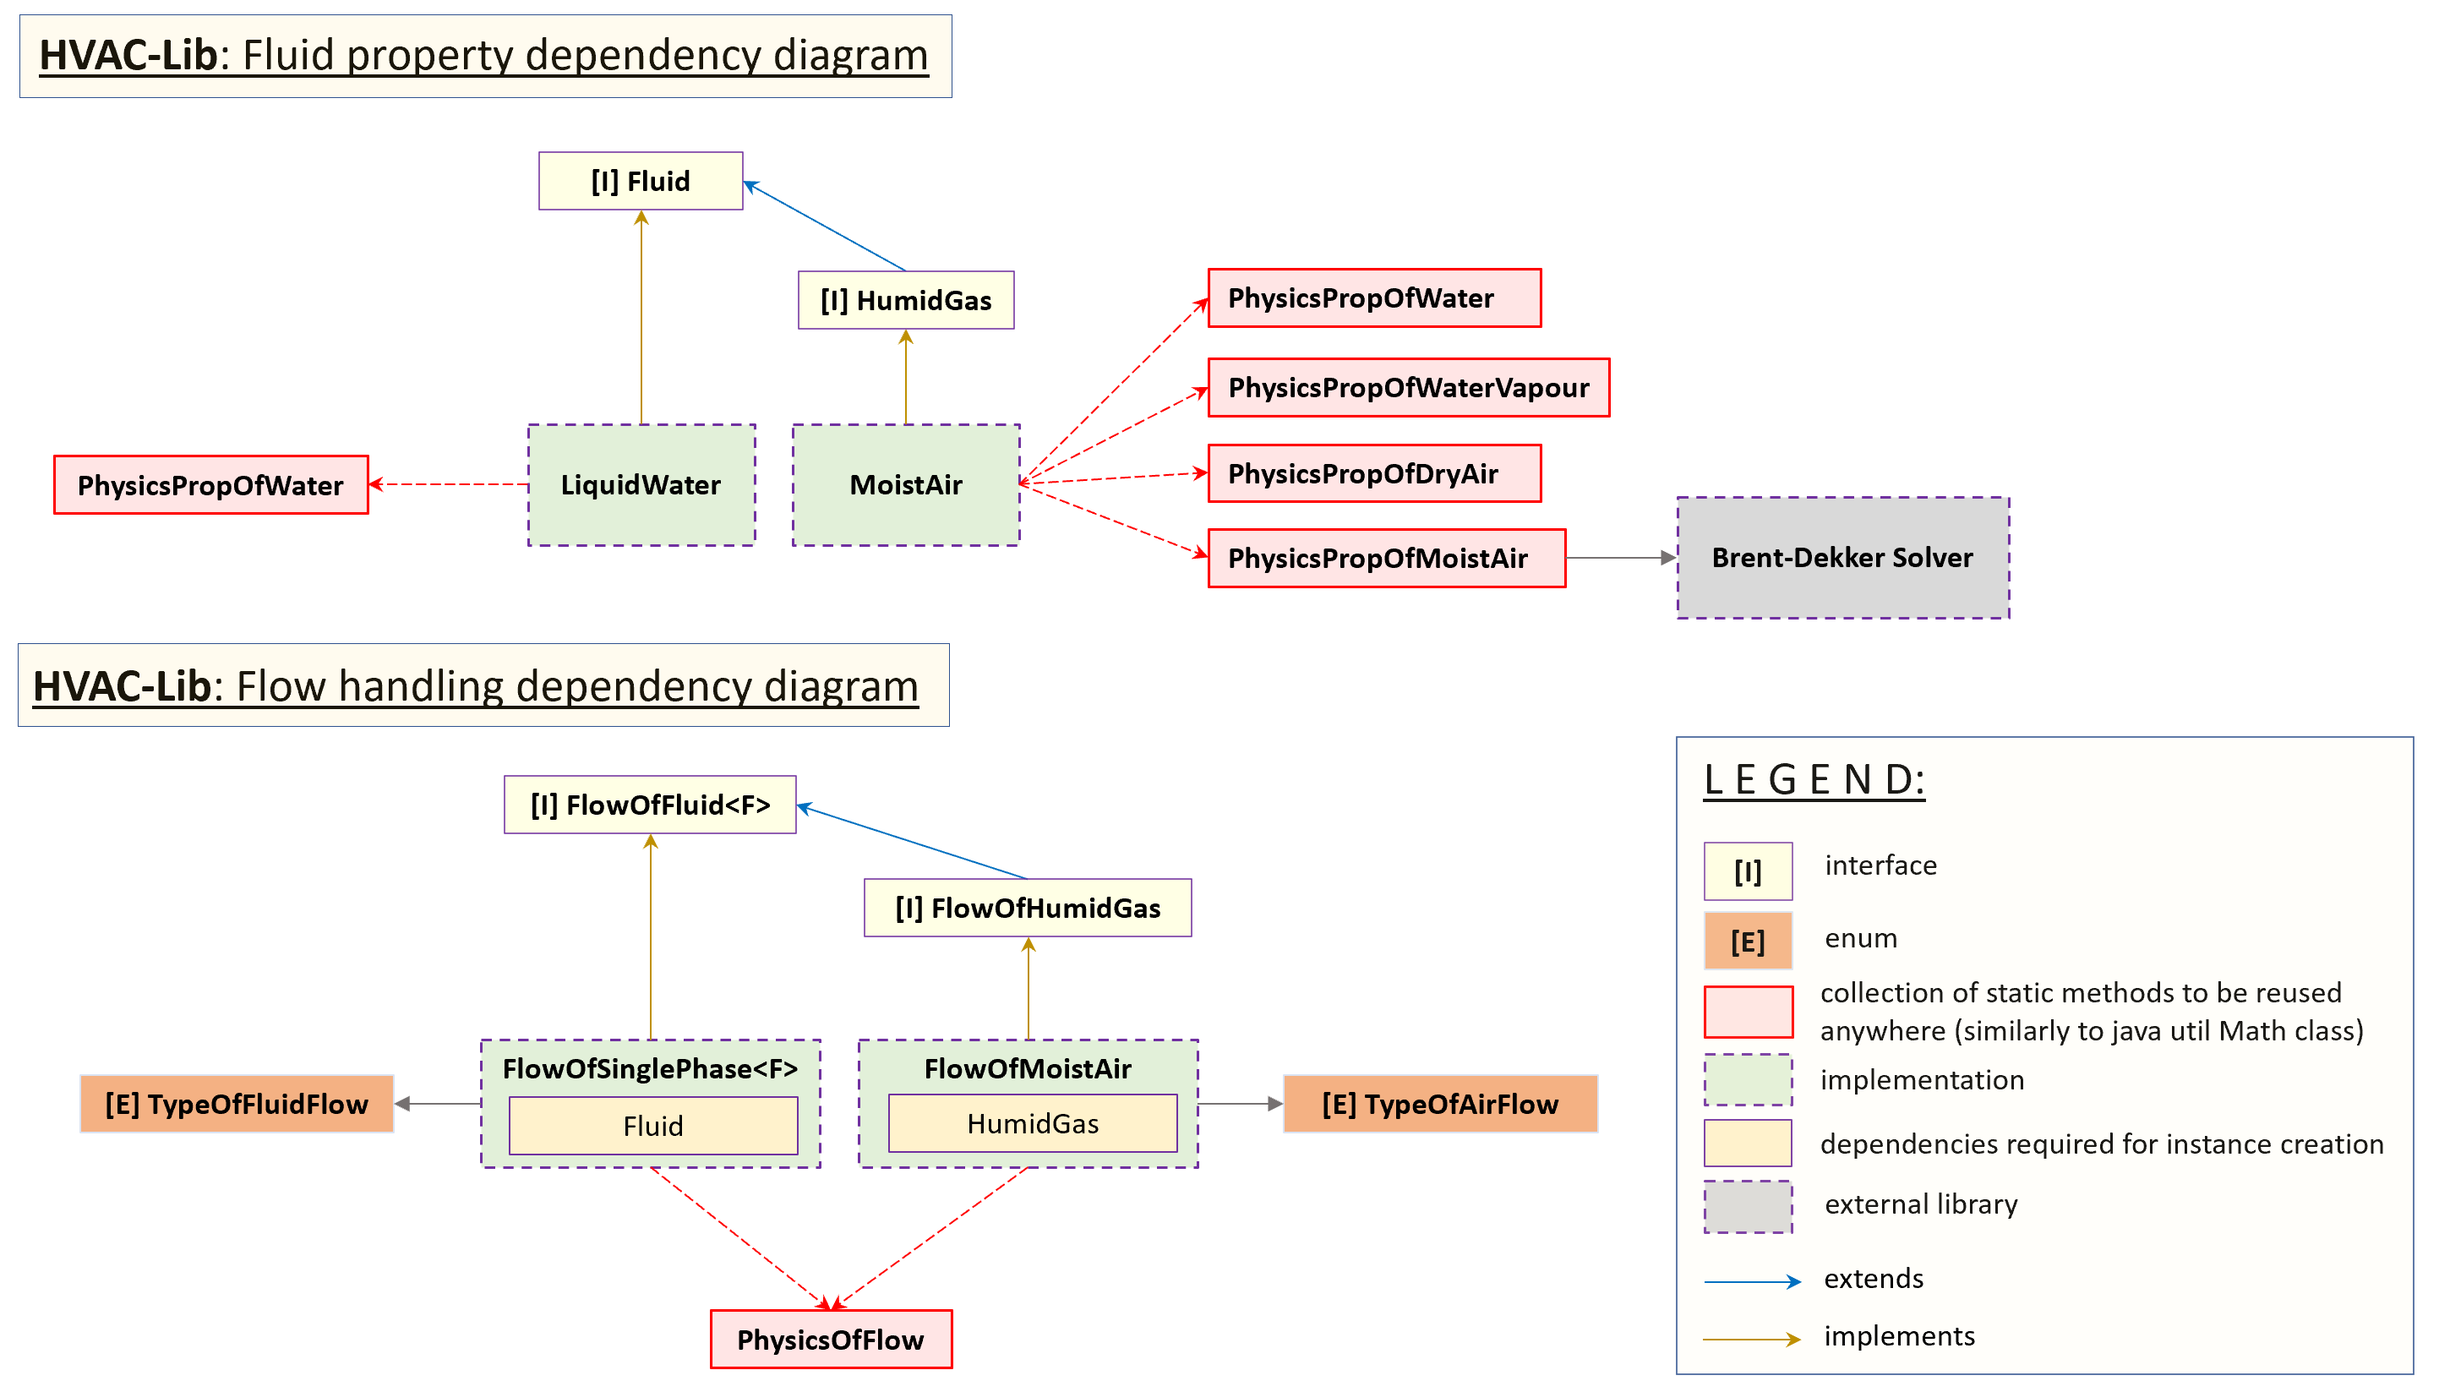
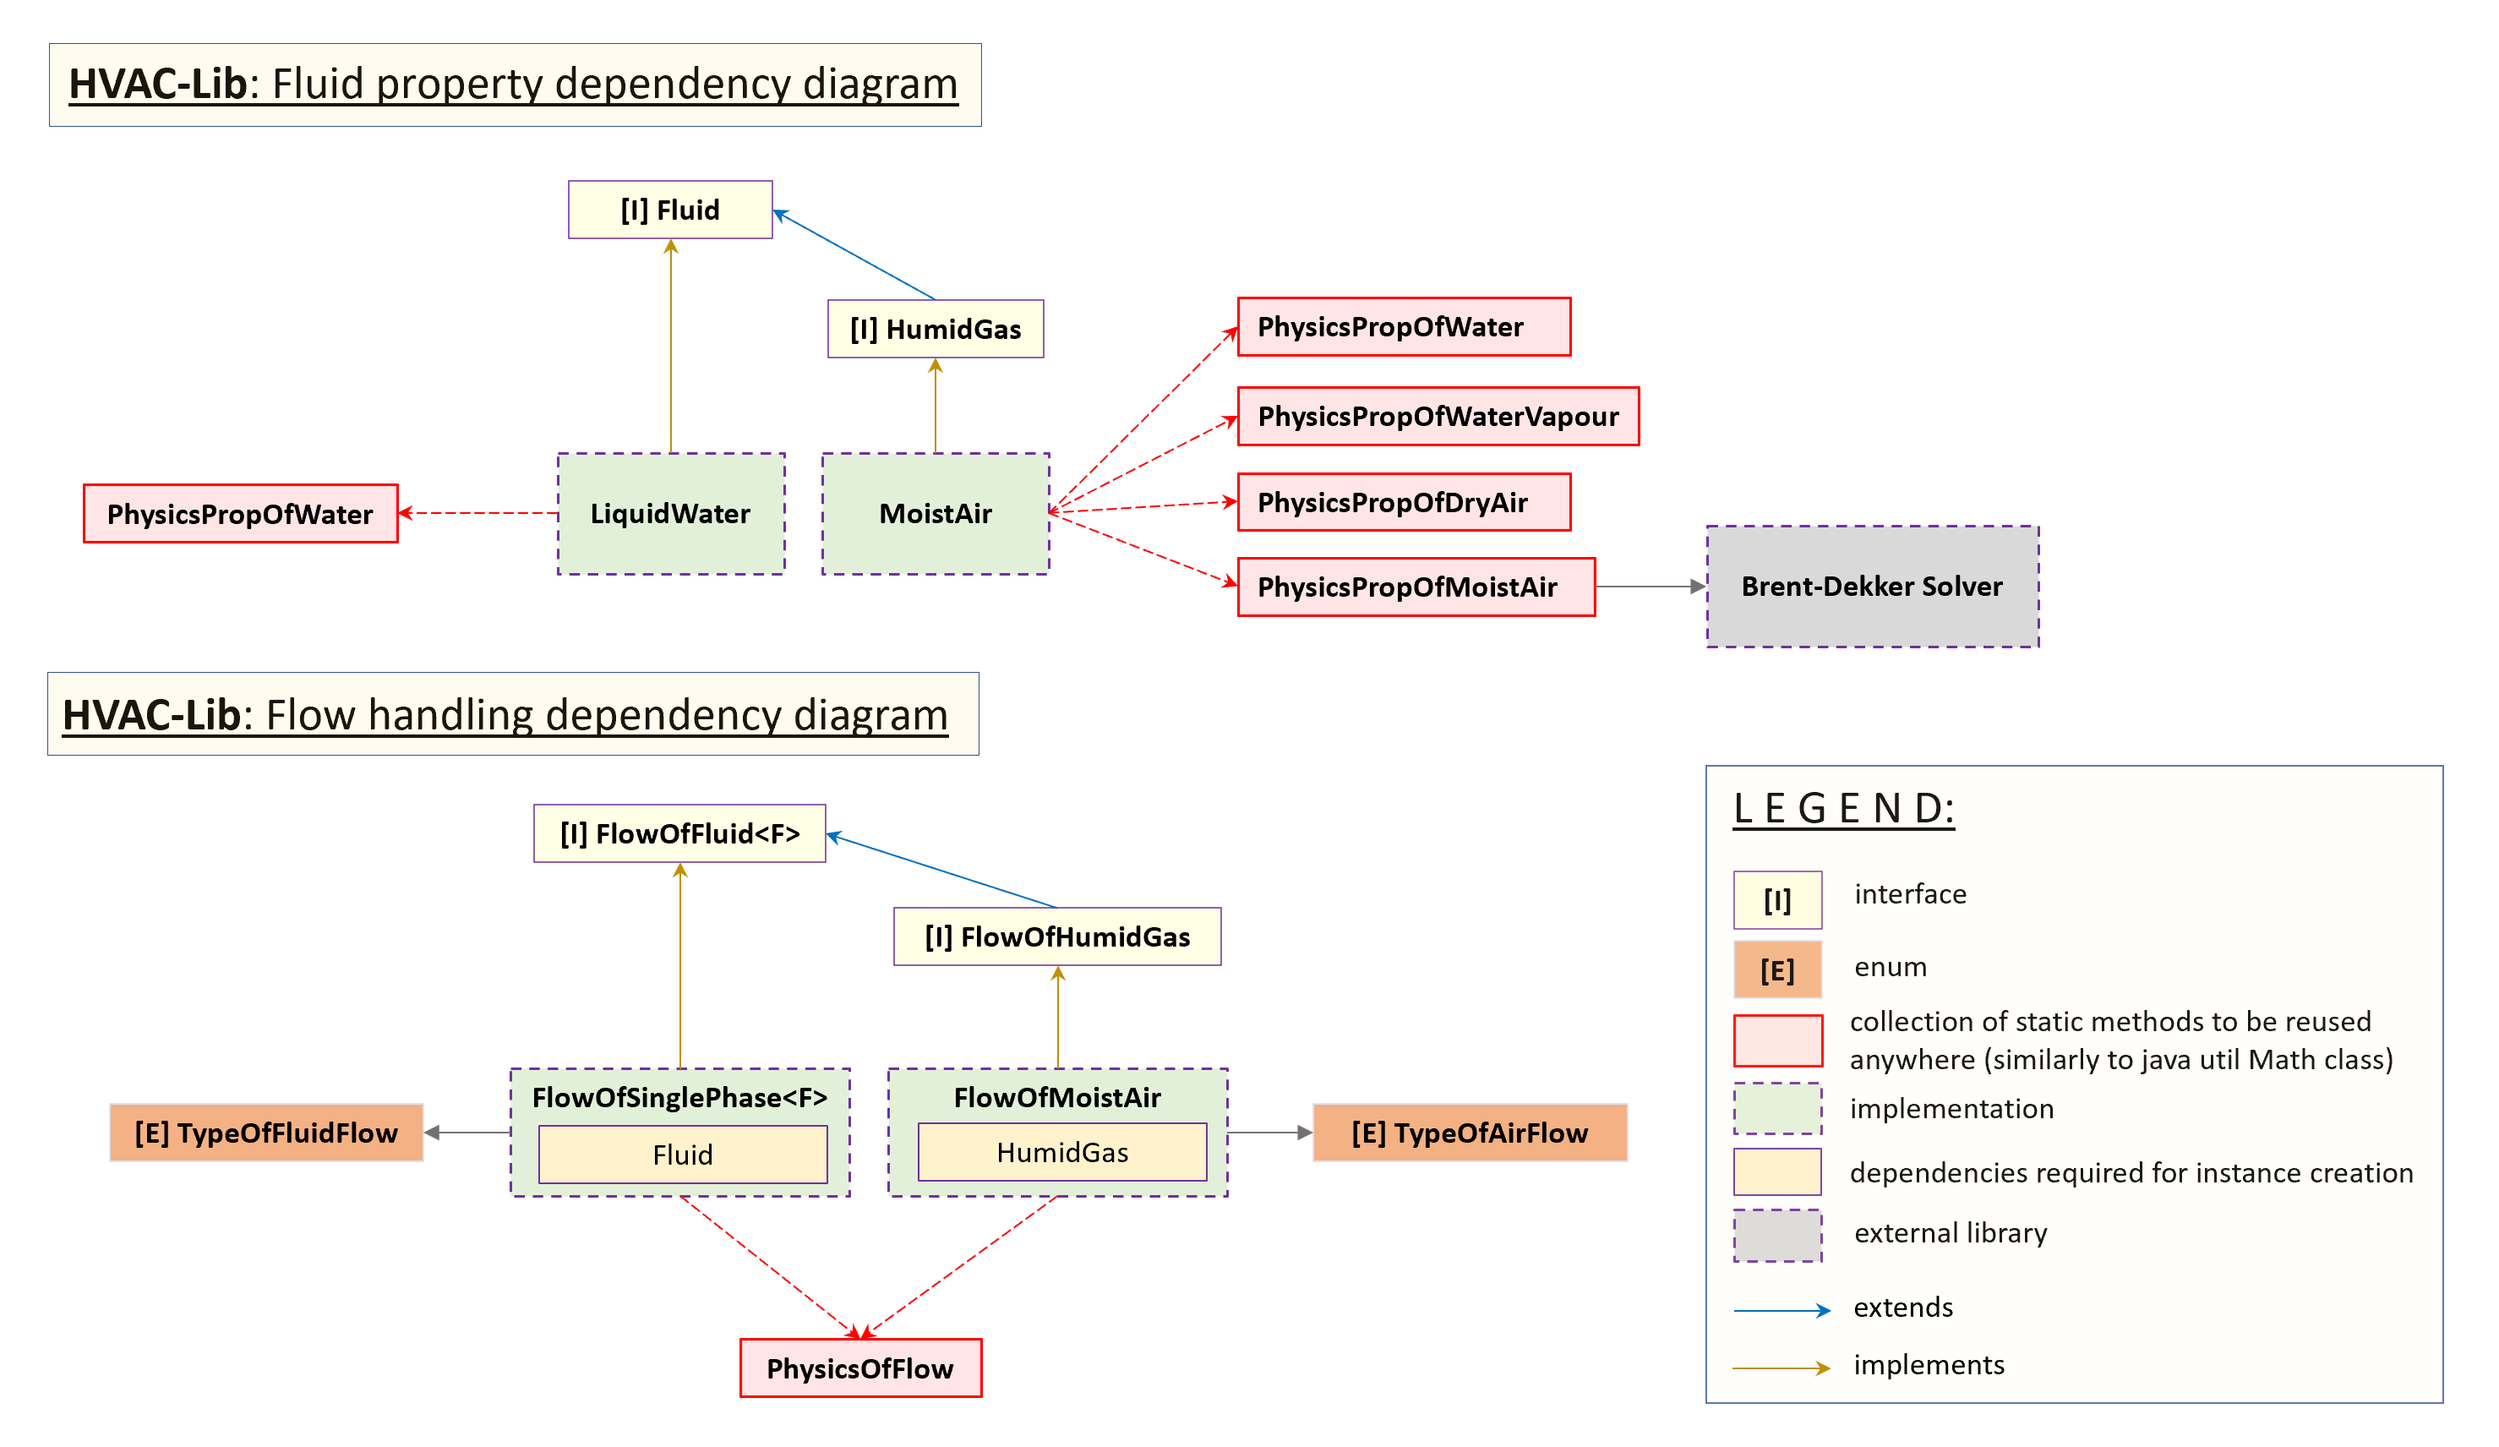
update README.MD, add diagram white-frame

diff --git a/README.MD b/README.MD
@@ -20,15 +20,13 @@ LAST CHANGES (2022.12.11):<br>
 
 The library is organized into following modules:
 * _fluids module_ - includes classes dedicated to fluid property representation and calculation
-* _flows module_ - includes classes representing fluid or humid gas flow handling
+* _flows module_ - includes classes representing fluid or humid gas flow handling<br>
 
-The diagram below presents Fluid and Flow modules structure:<br>
-<a href=""><img src="architecture/ARCH_1_FluidAndFlow.png" width="650"/><br></a>
+<a href="https://github.com/pjazdzyk/hvac-lib/blob/main/architecture/ARCH_1_FluidAndFlow.png"><img src="architecture/ARCH_1_FluidAndFlow.png" width="850"/><br></a>
 
-* _process module_ - includes classes representing each thermodynamic process implemented so far in the library
+* _process module_ - includes classes representing each thermodynamic process implemented so far in the library<br>
 
-The diagram below presents Fluid and Flow modules structure:<br>
-  <a href=""><img src="architecture/ARCH_2_Process.png" width="650"/><br></a>
+<a href="https://github.com/pjazdzyk/hvac-lib/blob/main/architecture/ARCH_2_Process.png"><img src="architecture/ARCH_2_Process.png" width="850"/><br></a>
 
 * _tests_ - includes all tests representing how to properly use each of library components
 
